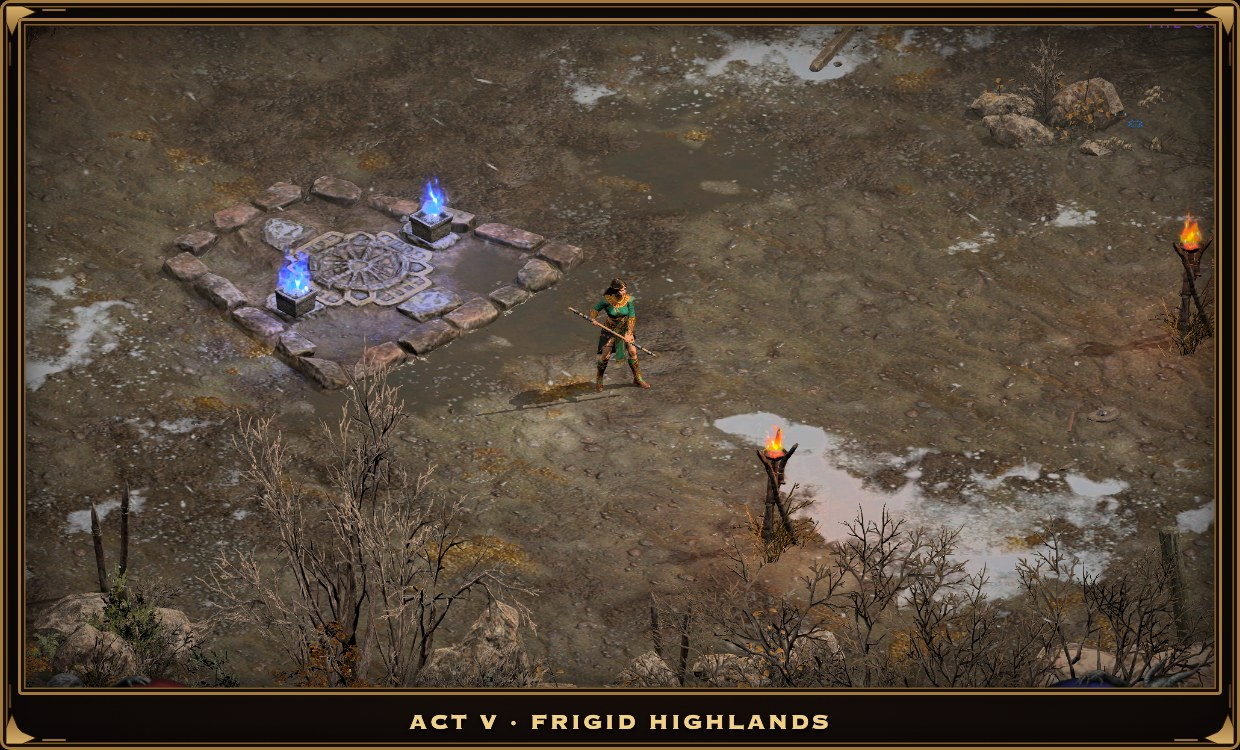
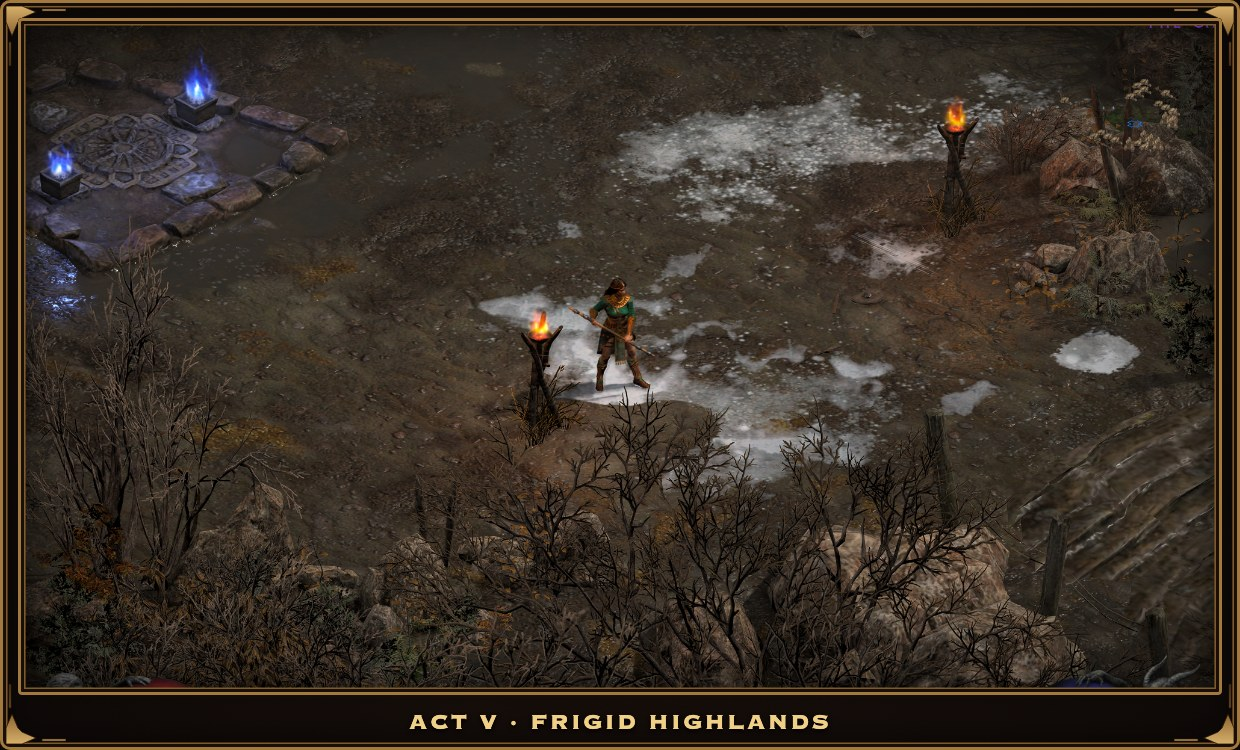
README: ray tracing, and the Mac's pictures retaken at the new Recommended
Every Mac picture is shot in front and full screen with rays on at Full, as this Mac now starts. The Video page shows the new rows. The iPhone comparison still shows the settings it was shot with, and says so, until the phone can be shot again.

diff --git a/README.md b/README.md
@@ -13,14 +13,14 @@
 
 <h3 align="center">The best way to play Diablo II: Resurrected on Apple silicon Macs, iPhone and iPad.</h3>
 
-D2R Metal turns your own copy of **Diablo II: Resurrected with Reign of the Warlock** into a native app for your Mac, iPhone or iPad. The game's own code runs directly on your Apple chip, and every frame is drawn with Metal 4: Sanctuary is sharp at your screen's full resolution and smooth at 60 fps, with controls made for each device, and it plays fully offline. It isn't an emulator, a stream or a remake. It is Blizzard's game, as it shipped.
+D2R Metal turns your own copy of **Diablo II: Resurrected with Reign of the Warlock** into a native app for your Mac, iPhone or iPad. The game's own code runs directly on your Apple chip, and every frame is drawn with Metal 4: Sanctuary is sharp at your screen's full resolution, smooth at 60 fps and, on Macs that can hold it, lit with ray tracing, with controls made for each device, and it plays fully offline. It isn't an emulator, a stream or a remake. It is Blizzard's game, as it shipped.
 
 You need your own copy of the **Nintendo Switch version** of the game; D2R Metal builds itself from your files and contains none of the game.
 
 <p align="center"><b><a href="https://github.com/PowerBeef/d2r-metal/releases/latest">Download D2R Metal Launcher</a></b> for the Mac &nbsp;·&nbsp; <a href="#getting-started">Getting started</a> &nbsp;·&nbsp; <a href="#questions-and-answers">Questions and answers</a></p>
 
 <p align="center">
-  <img src="docs/images/r2-plaques3.jpg" width="100%" alt="Native: Apple silicon and Metal 4, no emulation, no streaming. Stunning: your screen's resolution, MetalFX, SMAA and shadows. 60 fps: smooth on Mac, iPhone and iPad. Your way: mouse and keyboard, controller or touch.">
+  <img src="docs/images/r2-plaques3.jpg" width="100%" alt="Native: Apple silicon and Metal 4, no emulation, no streaming. Stunning: your screen's resolution, MetalFX and ray tracing. 60 fps: smooth on Mac, iPhone and iPad. Your way: mouse and keyboard, controller or touch.">
 </p>
 
 <h2 align="center" id="stunning-on-every-screen"><img src="docs/images/r2-plate-stunning.jpg" width="100%" alt="Stunning on Every Screen"></h2>
@@ -28,8 +28,9 @@ You need your own copy of the **Nintendo Switch version** of the game; D2R Metal
 D2R Metal draws the game for the screen in front of you. The first time it starts on a Mac, it looks at the Mac's graphics chip and screen and turns on as much as it estimates the Mac can keep at a steady 60 fps. iPhone and iPad start from one set of settings, the same on every device, tested on an iPhone 17 Pro. Those settings are listed as **Recommended** in the game's Options, and you can change any of them ([Picture settings](#picture-settings)).
 
 - **Sharp at your screen's resolution.** On a Mac the interface and text are drawn at the resolution macOS draws your display at, up to 4K. A larger screen (5K or 6K, or a 4K one set to look like 2560 × 1440) gets the 4K picture enlarged, and a Mac too light for its screen's full resolution starts with a smaller picture enlarged by MetalFX. On iPhone and iPad they are drawn at the screen's full resolution. The 3D world is drawn at full resolution on the fastest Macs, and lower, enlarged by MetalFX, on lighter Macs, iPhone and iPad.
-- **MetalFX.** When the 3D world is drawn below your screen's resolution, Apple's upscaler enlarges it with far more detail than a plain stretch.
-- **Clean edges and crisp ground.** The game's PC anti-aliasing (SMAA) and 16x texture filtering keep edges smooth and the ground sharp into the distance.
+- **Ray tracing on the Mac.** On Macs from the M3 on with at least 16 GB, where it fits, rays draw the shadows of the sun, of fire and of characters, the soft shade where things meet, and what each surface reflects of its surroundings, by its own material: polished stone, ice and metal catch the light, and damp places more than dry ones.
+- **MetalFX in every frame.** Apple's MetalFX builds detail from several frames, smooths the edges and creates every other frame, so you see 60 frames a second while the graphics chip draws 30 and has time to spare for the picture.
+- **Crisp ground.** 16x texture filtering keeps the ground sharp into the distance.
 - **Shadows everywhere.** On the Mac, trees, walls, fences and buildings cast their shadows as on PC, and finer shadow maps keep the shading on characters detailed.
 - **True colors.** The picture is shown in the colors the game was made in, on any screen, wide-gamut ones included.
 
@@ -39,13 +40,13 @@ The pictures below show the same moment in the game: on the left, the Nintendo S
   <img src="docs/images/r2-split-mac-v4.jpg" width="100%" alt="The Rogue Encampment at 1:1 pixels: on the left the Switch version's 1600 × 900 picture enlarged to the screen, on the right D2R Metal on a Mac drawing at 2560 × 1440">
 </p>
 
-<p align="center"><sub><b>On a Mac with a 2560 × 1440 screen.</b> Left: the Switch version's docked picture (1600 × 900), enlarged to the screen as a TV or monitor would. Right: D2R Metal with the settings it picked for this Mac: everything drawn at 2560 × 1440 with the 3D world at full resolution, SMAA, 16x filtering, environment shadows and fine shadow maps.</sub></p>
+<p align="center"><sub><b>On a Mac with a 2560 × 1440 screen.</b> Left: the Switch version's docked picture (1600 × 900), enlarged to the screen as a TV or monitor would. Right: D2R Metal with the settings it picked for this Mac: everything drawn at 2560 × 1440 with the 3D world at full resolution, ray tracing, MetalFX, 16x filtering, environment shadows and fine shadow maps.</sub></p>
 
 <p align="center">
   <img src="docs/images/r2-split-iphone-v4.jpg" width="100%" alt="The Rogue Encampment at 1:1 iPhone 17 Pro pixels: on the left the Switch version's 1280 × 720 handheld picture enlarged, on the right D2R Metal on the iPhone">
 </p>
 
-<p align="center"><sub><b>On an iPhone 17 Pro.</b> Left: the Switch version's handheld picture (1280 × 720), enlarged to the phone's screen. Right: D2R Metal at its iPhone and iPad Recommended settings (the same on every iPhone and iPad): the 3D world at 75% enlarged by MetalFX, with SMAA and 16x filtering, at 60 fps on this phone (drawn by the iOS app at the phone's resolution and settings).</sub></p>
+<p align="center"><sub><b>On an iPhone 17 Pro.</b> Left: the Switch version's handheld picture (1280 × 720), enlarged to the phone's screen. Right: D2R Metal on the iPhone as it was before the settings below: the 3D world at 75% enlarged by MetalFX, with SMAA and 16x filtering, at 60 fps on this phone (drawn by the iOS app at the phone's resolution and settings).</sub></p>
 
 <h2 align="center" id="across-sanctuary"><img src="docs/images/r2-plate-sanctuary.jpg" width="100%" alt="Across Sanctuary"></h2>
 
@@ -210,8 +211,8 @@ You can change any setting; **Graphic Presets** also offers *Performance* (light
 - **Apply, Discard and Default** work like the game's own option pages.
 
 <p align="center">
-  <img src="docs/images/r2-frame-video-display-v3.jpg" width="49%" alt="The Mac Video tab: Display Mode Fullscreen, Resolution Native, Color Accurate, Graphic Presets Recommended, 3D Resolution 100%">
-  <img src="docs/images/r2-frame-video-graphics-v3.jpg" width="49%" alt="The Mac Video tab's graphics rows: 3D Resolution 100%, Upscaling MetalFX, Anti-Aliasing SMAA, Anisotropic Filtering 16x, Environment Shadows On">
+  <img src="docs/images/r2-frame-video-display-v4.jpg" width="49%" alt="The Mac Video tab: Display Mode Fullscreen, Resolution Native, Color Accurate, Graphic Presets Recommended, 3D Resolution 100%">
+  <img src="docs/images/r2-frame-video-graphics-v4.jpg" width="49%" alt="The Mac Video tab's graphics rows: 3D Resolution 100%, Anisotropic Filtering 16x, Environment Shadows On, Shadow Quality Ultra, Environment Detail High, Ray Tracing Full">
 </p>
 <p align="center">
   <img src="docs/images/r2-frame-settings-v3.jpg" width="49%" alt="The Settings tab with the game's own Offline Difficulty Scaling row">
@@ -283,7 +284,8 @@ The tools in the repository:
 
 Measured on Apple hardware ("edge sharpness" is the edge variance of the whole captured frame: one number for how much contrast its edges have; higher is crisper, and it only compares frames of the same scene):
 
-- **Mac with an M6 chip, the settings D2R Metal picks for it** (town route 12 runs, combat route 3 runs, 2026-11-04): Native 2560 × 1440 with the 3D world at full resolution and every effect on runs at 59–60 fps (GPU time per frame p50 8.0–8.3 ms, p95 about 13 ms in town). In every run about 1–2% of frames miss one screen refresh (33 ms instead of 16.7), in town and on the combat route's walk; that frame pacing is not new in this release (the same share in an A/B against the build of the day before, 6 + 6 runs) and is still open. Drawing 3840 × 2160 on the town route takes about 12.4 ms per frame, with fewer missed refreshes (0.1–0.4%). This GPU lowers its clock when it has room, so its time per frame barely moves with the 3D resolution (8.4 → 6.6 ms from 100% to 50%) and cannot rank the settings' costs on a fast Mac; the settings for other chips are estimated from public GPU benchmarks per chip ([docs/MAC.md](docs/MAC.md)).
+- **Mac with an M6 chip, frame generation and ray tracing** (Mac App in front, full screen, 2560 × 1440, 2026-11-06): the game draws 30 frames and shows 60. Presenting without the display link, as Apple's frame interpolation guide does, took late images from 15 to 0 over four 24 s runs in town with rays off, and from 58 to 3 (discarded images 48 to 0) in a 52 s walk through the Cathedral with rays on. Input to picture is about 96 ms against 73.5 at real 60 (two runs of 26 trials, rays off). Rays at Full take about 11 ms more GPU time per drawn frame in the Cathedral, measured at full clock.
+- **Mac with an M6 chip, the settings D2R Metal picked for it before frame generation** (town route 12 runs, combat route 3 runs, 2026-11-04): Native 2560 × 1440 with the 3D world at full resolution and every effect on runs at 59–60 fps (GPU time per frame p50 8.0–8.3 ms, p95 about 13 ms in town). In every run about 1–2% of frames miss one screen refresh (33 ms instead of 16.7), in town and on the combat route's walk; that frame pacing is not new in this release (the same share in an A/B against the build of the day before, 6 + 6 runs) and is still open. Drawing 3840 × 2160 on the town route takes about 12.4 ms per frame, with fewer missed refreshes (0.1–0.4%). This GPU lowers its clock when it has room, so its time per frame barely moves with the 3D resolution (8.4 → 6.6 ms from 100% to 50%) and cannot rank the settings' costs on a fast Mac; the settings for other chips are estimated from public GPU benchmarks per chip ([docs/MAC.md](docs/MAC.md)).
 - **Mac with an M6 chip, the 3D world at 75%** (2560 × 1440 screen, town route, 6 + 6 alternating runs): Native output with the 3D at 75% + MetalFX takes about the same GPU time per frame as 1920 × 1080 + MetalFX (game frame 6.1 → 7.5 ms, present 1.7–2.1 → 0.3–0.4 ms). The game's SMAA added about 0.5 ms before the shader change below, and 16x filtering adds about 0.2 ms; both are GPU time at the lowered clock this GPU runs at when it has room, so they are relative sizes, not costs. Letting rendering passes overlap saves 0.54 ms (−8.5%). Skipping repeated state binds cuts bind records by 57% and the replay thread's instructions by 13%.
 - **Mac, SMAA** (4 + 4 alternating runs): building the anti-aliasing shaders without the HDR curve the game computes and then discards here cut the SMAA edge pass from 0.68 to 0.31 ms and the GPU time per frame from 7.25 to 6.72 ms, with a captured frame replaying pixel-identical ([e070b94](https://github.com/PowerBeef/d2r-metal/commit/e070b94)).
 - **Mac, environment and Ultra shadows** (M6 with a 12-core GPU, town route, 6 + 6 alternating runs per comparison, 2026-11-04; measured at the clock this GPU chose, so not an estimate for slower Macs): drawing a 3840 × 2160 picture (where this GPU has less room to lower its clock), scenery shadows add about 0.70 ms of shadow-pass time per frame in town and 0.38 ms in the Blood Moor with Ultra shadows (0.55 / 0.32 ms with Standard); for the whole frame the difference is too small to separate from run-to-run noise in 6 + 6 alternating runs (median +0.24 ms in town). Ultra shadows take about 0.59 ms more shadow-pass time than Standard. At this Mac's Recommended (Native 2560 × 1440, 3D 100%) the town route runs at 59–60 fps with environment shadows on and off alike, with the same 1–2% of missed refreshes either way. (The first measurement, [4f952ed](https://github.com/PowerBeef/d2r-metal/commit/4f952ed), used the 1024-pixel shadow map of earlier builds.)
